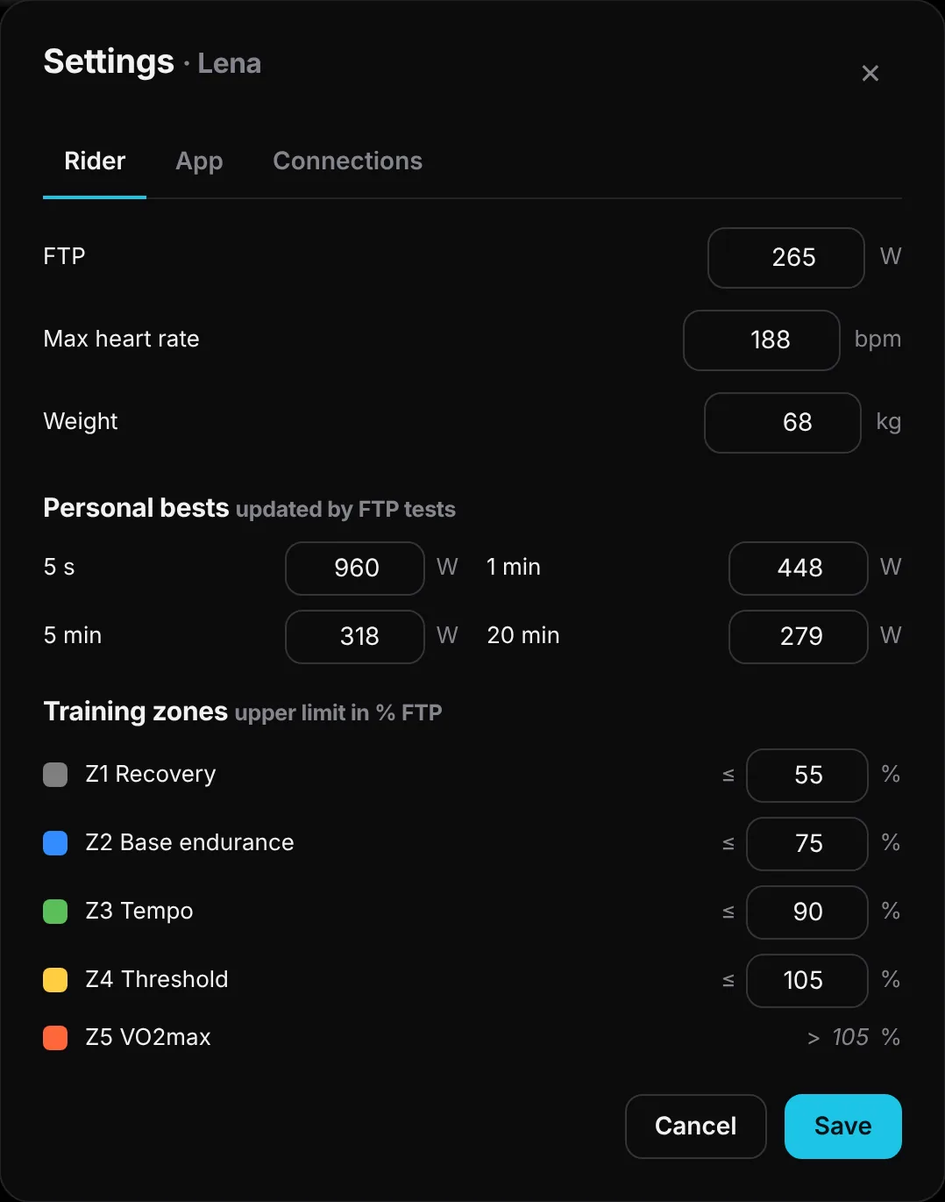
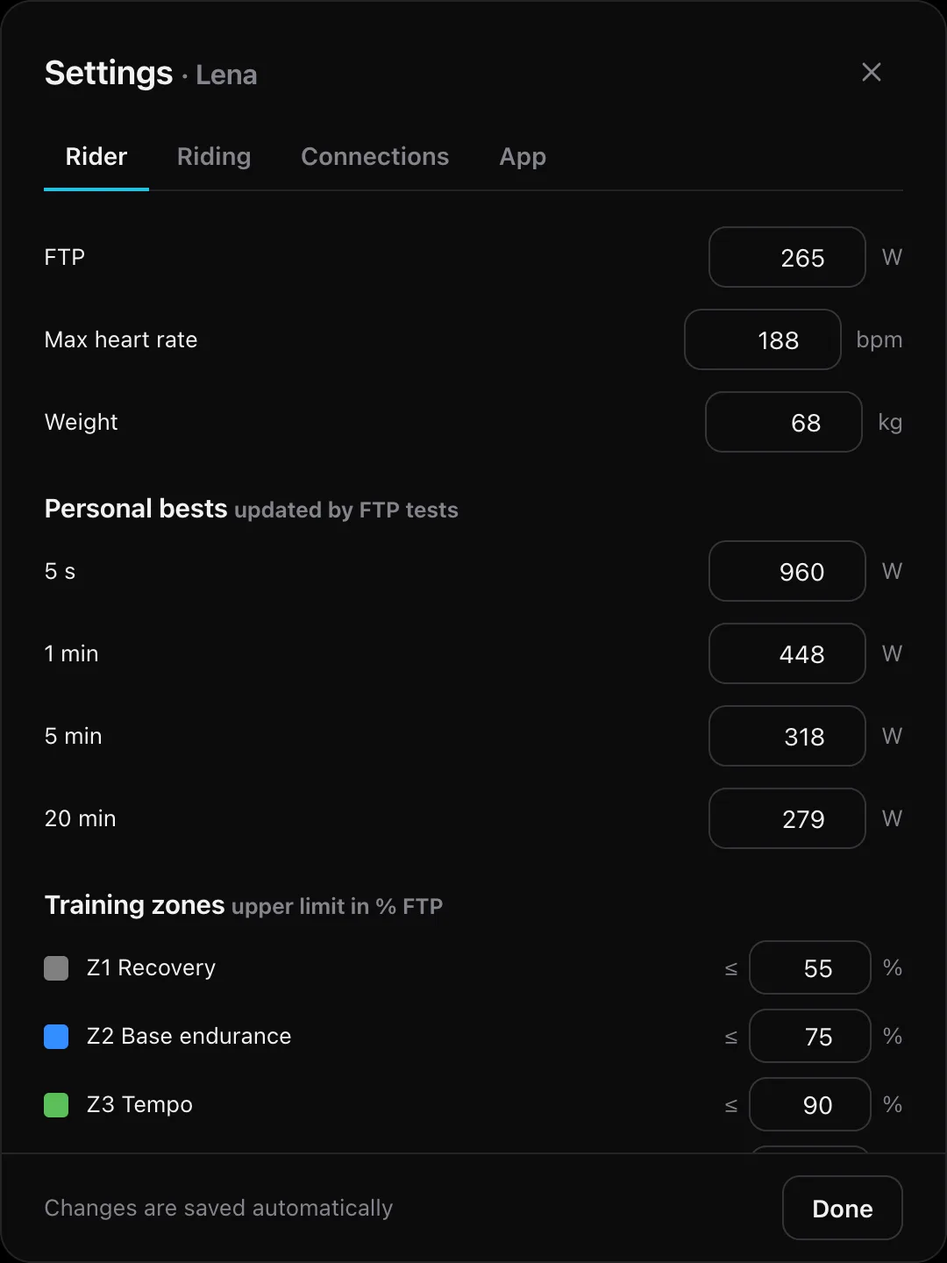
Align the website with 1.7: short-ride uploads, Retry auto-connect, keyboard shortcuts setting, Settings tabs, engine requirements
Retake the Settings screenshots (Rider, Connections) for the four-tab dialog
and add the Riding tab to the ride screen section.

diff --git a/site/features.html b/site/features.html
@@ -18,8 +18,8 @@
 </div></section>
 
 <section class="deep" id="ride"><div class="wrap grid">
-  <div class="side rv"><span class="eyebrow">Ride screen</span><h2 class="display">ERG, second by second.</h2><p>ERG updates the target every second, ramps included. In free-ride and all-out segments ERG turns off and you ride on your gears.</p><table class="keys"><tr><td><kbd>Space</kbd></td><td class="muted">start / pause</td></tr><tr><td><kbd>←</kbd> <kbd>→</kbd></td><td class="muted">previous / next segment</td></tr><tr><td><kbd>↑</kbd> <kbd>↓</kbd></td><td class="muted">intensity ±1 % (with Shift ±10 %)</td></tr><tr><td><kbd>+</kbd> <kbd>−</kbd></td><td class="muted">shift virtual gear</td></tr><tr><td><kbd>Esc</kbd></td><td class="muted">end the workout</td></tr></table></div>
-  <div class="rv"><div class="frame"><div class="bar"><i></i><i></i><i></i></div><img class="sd" src="img/ride-dark.webp" alt="Ride screen with live data and workout chart" width="1600" height="1000" loading="lazy"><img class="sl" src="img/ride-light.webp" alt="Ride screen with live data and workout chart" width="1600" height="1000" loading="lazy"></div><div class="cards"><div class="card"><h4>Start</h4><p>The workout starts after about two seconds of pedalling, or when you press Space.</p></div><div class="card"><h4>Cadence targets</h4><p>If a segment has a cadence target, it appears next to your cadence. The bar is green on target, amber 5–10 rpm off and red beyond that.</p></div><div class="card"><h4>Auto-pause</h4><p>After three seconds without power or cadence the workout pauses, and it resumes when you pedal again. You can turn this off.</p></div><div class="card"><h4>Sounds</h4><p>A countdown in the last three seconds before each change of target: three rising notes when the power goes up, three falling notes when it goes down. A short chime plays when you ride a workout to the end.</p></div></div></div>
+  <div class="side rv"><span class="eyebrow">Ride screen</span><h2 class="display">ERG, second by second.</h2><p>ERG updates the target every second, ramps included. In free-ride and all-out segments ERG turns off and you ride on your gears.</p><table class="keys"><tr><td><kbd>Space</kbd></td><td class="muted">start / pause</td></tr><tr><td><kbd>←</kbd> <kbd>→</kbd></td><td class="muted">previous / next segment</td></tr><tr><td><kbd>↑</kbd> <kbd>↓</kbd></td><td class="muted">intensity ±1 % (with Shift ±10 %)</td></tr><tr><td><kbd>+</kbd> <kbd>−</kbd></td><td class="muted">shift virtual gear</td></tr><tr><td><kbd>Esc</kbd></td><td class="muted">end the workout</td></tr></table><p class="muted" style="font-size:15px">Watching a video in another app? Turn off <b>Keyboard shortcuts while riding</b> under Settings → Riding. The on-screen buttons and controllers keep working.</p></div>
+  <div class="rv"><div class="frame"><div class="bar"><i></i><i></i><i></i></div><img class="sd" src="img/ride-dark.webp" alt="Ride screen with live data and workout chart" width="1600" height="1000" loading="lazy"><img class="sl" src="img/ride-light.webp" alt="Ride screen with live data and workout chart" width="1600" height="1000" loading="lazy"></div><div style="height:14px"></div><div style="max-width:560px"><div class="dialog-shot"><img class="sd" src="img/riding-card-dark.webp" alt="Riding settings with sounds, auto-pause, coach hints, keyboard shortcuts and virtual shifting" width="1080" height="1440" loading="lazy"><img class="sl" src="img/riding-card-light.webp" alt="Riding settings with sounds, auto-pause, coach hints, keyboard shortcuts and virtual shifting" width="1080" height="1440" loading="lazy"></div></div><div class="cards"><div class="card"><h4>Start</h4><p>The workout starts after about two seconds of pedalling, or when you press Space.</p></div><div class="card"><h4>Cadence targets</h4><p>If a segment has a cadence target, it appears next to your cadence. The bar is green on target, amber 5–10 rpm off and red beyond that.</p></div><div class="card"><h4>Auto-pause</h4><p>After three seconds without power or cadence the workout pauses, and it resumes when you pedal again. You can turn this off.</p></div><div class="card"><h4>Sounds</h4><p>A countdown in the last three seconds before each change of target: three rising notes when the power goes up, three falling notes when it goes down. A short chime plays when you ride a workout to the end.</p></div></div></div>
 </div></section>
 
 <section class="deep" id="compact"><div class="wrap grid">
@@ -49,17 +49,17 @@
 
 <section class="deep" id="devices"><div class="wrap grid">
   <div class="side rv"><span class="eyebrow">Devices</span><h2 class="display">Pair once.</h2><p>Trainer, heart-rate strap and controller are remembered for each rider. Open the Bluetooth menu in the top bar to see what is connected and to connect or change a device.</p></div>
-  <div class="rv"><div style="max-width:420px"><div class="dialog-shot"><img class="sd" src="img/devices-card-dark.webp" alt="Devices menu with a smart trainer, a heart-rate strap at 82 % battery and a Zwift Ride controller at 24 % battery" width="600" height="408" loading="lazy"><img class="sl" src="img/devices-card-light.webp" alt="Devices menu with a smart trainer, a heart-rate strap at 82 % battery and a Zwift Ride controller at 24 % battery" width="600" height="408" loading="lazy"></div></div><div class="cards"><div class="card"><h4>Automatic connection</h4><p>Saved devices connect when the app starts and reconnect by themselves after a dropout. A controller you switch off no longer shows as connected.</p></div><div class="card"><h4>Battery level</h4><p>Devices that report their battery, like most heart-rate straps and controllers and a few trainers, show it in the menu: green from 40 %, amber from 16 %, red at 15 % or less. Other devices show nothing.</p></div><div class="card"><h4>Status at a glance</h4><p>Three small dots next to the Bluetooth icon show trainer, heart rate and controller: green is connected, amber is connecting, grey is off.</p></div><div class="card"><h4>One app at a time</h4><p>Most trainers and controllers accept only one Bluetooth connection, so close Zwift and other training apps first.</p></div></div></div>
+  <div class="rv"><div style="max-width:420px"><div class="dialog-shot"><img class="sd" src="img/devices-card-dark.webp" alt="Devices menu with a smart trainer, a heart-rate strap at 82 % battery and a Zwift Ride controller at 24 % battery" width="600" height="408" loading="lazy"><img class="sl" src="img/devices-card-light.webp" alt="Devices menu with a smart trainer, a heart-rate strap at 82 % battery and a Zwift Ride controller at 24 % battery" width="600" height="408" loading="lazy"></div></div><div class="cards"><div class="card"><h4>Automatic connection</h4><p>Saved devices connect when the app starts and reconnect by themselves after a dropout. A controller you switch off no longer shows as connected. If the app started before your trainer was awake, <b>Retry auto-connect</b> in the menu connects the missing devices.</p></div><div class="card"><h4>Battery level</h4><p>Devices that report their battery, like most heart-rate straps and controllers and a few trainers, show it in the menu: green from 40 %, amber from 16 %, red at 15 % or less. Other devices show nothing.</p></div><div class="card"><h4>Status at a glance</h4><p>Three small dots next to the Bluetooth icon show trainer, heart rate and controller: green is connected, amber is connecting, grey is off.</p></div><div class="card"><h4>One app at a time</h4><p>Most trainers and controllers accept only one Bluetooth connection, so close Zwift and other training apps first.</p></div></div></div>
 </div></section>
 
 <section class="deep" id="riders"><div class="wrap grid">
   <div class="side rv"><span class="eyebrow">Riders &amp; sync</span><h2 class="display">Several riders, one app.</h2><p>Each rider has their own avatar, FTP, max heart rate, weight, zones, power bests, plan progress, favorites, history, paired devices and language: English, Deutsch or Français.</p></div>
-  <div class="rv"><div class="duo"><div class="dialog-shot"><img class="sd" src="img/settings-card-dark.webp" alt="Rider settings with FTP, weight, power bests and training zones" width="1078" height="1370" loading="lazy"><img class="sl" src="img/settings-card-light.webp" alt="Rider settings with FTP, weight, power bests and training zones" width="1078" height="1370" loading="lazy"></div><div class="dialog-shot"><img class="sd" src="img/sync-card-dark.webp" alt="Profile sync settings" width="1000" height="1469" loading="lazy"><img class="sl" src="img/sync-card-light.webp" alt="Profile sync settings" width="1000" height="1469" loading="lazy"></div></div><div class="cards"><div class="card"><h4>Zones</h4><p>Zone limits are set in % of FTP. The watt ranges update when your FTP changes.</p></div><div class="card"><h4>Power bests</h4><p>5 s, 1 min, 5 min and 20 min, updated by FTP tests.</p></div><div class="card"><h4>Sync</h4><p>Riders sync between computers through iCloud Drive, Dropbox, Nextcloud or any folder another app keeps in sync.</p></div><div class="card"><h4>Local by default</h4><p>There is no zwoTrainer account or server. Paired devices, the workouts folder and the Garmin sign-in stay on each computer.</p></div></div></div>
+  <div class="rv"><div class="duo"><div class="dialog-shot"><img class="sd" src="img/settings-card-dark.webp" alt="Rider settings with FTP, weight, power bests and training zones" width="1080" height="1440" loading="lazy"><img class="sl" src="img/settings-card-light.webp" alt="Rider settings with FTP, weight, power bests and training zones" width="1080" height="1440" loading="lazy"></div><div class="dialog-shot"><img class="sd" src="img/sync-card-dark.webp" alt="Profile sync settings" width="1080" height="1440" loading="lazy"><img class="sl" src="img/sync-card-light.webp" alt="Profile sync settings" width="1080" height="1440" loading="lazy"></div></div><div class="cards"><div class="card"><h4>Zones</h4><p>Zone limits are set in % of FTP. The watt ranges update when your FTP changes.</p></div><div class="card"><h4>Power bests</h4><p>5 s, 1 min, 5 min and 20 min, updated by FTP tests.</p></div><div class="card"><h4>Sync</h4><p>Riders sync between computers through iCloud Drive, Dropbox, Nextcloud or any folder another app keeps in sync.</p></div><div class="card"><h4>Settings</h4><p>Four tabs: Rider, Riding, Connections and App. Every change is saved as you make it, and a value out of range is marked instead of saved.</p></div><div class="card"><h4>Local by default</h4><p>There is no zwoTrainer account or server. Paired devices, the workouts folder and the Garmin sign-in stay on each computer.</p></div></div></div>
 </div></section>
 
 <section class="deep" id="uploads"><div class="wrap grid">
   <div class="side rv"><span class="eyebrow">Uploads</span><h2 class="display">Garmin, Strava, Intervals.icu and COROS.</h2><p>Each ride is saved as a FIT file. Uploads run automatically or with one click, and the ride history shows where each ride went.</p></div>
-  <div class="rv"><div style="max-width:560px"><div class="dialog-shot"><img class="sd" src="img/summary-card-dark.webp" alt="Ride summary with the ride uploaded to Garmin Connect" width="918" height="784" loading="lazy"><img class="sl" src="img/summary-card-light.webp" alt="Ride summary with the ride uploaded to Garmin Connect" width="918" height="784" loading="lazy"></div></div><div style="height:14px"></div><div class="dialog-shot"><img class="sd" src="img/history-card-dark.webp" alt="Ride history with a Garmin check mark for every uploaded ride" width="1400" height="449" loading="lazy"><img class="sl" src="img/history-card-light.webp" alt="Ride history with a Garmin check mark for every uploaded ride" width="1400" height="449" loading="lazy"></div><div class="cards"><div class="card"><h4>Garmin Connect</h4><p>Sign in on Garmin's own page (MFA supported). Rides are named after the workout, and Garmin calculates Training Effect and VO2max.</p></div><div class="card"><h4>Strava</h4><p>Link Strava to your Garmin account once, and uploaded rides continue to Strava.</p></div><div class="card"><h4>Intervals.icu</h4><p>Automatic uploads through the official API, using your API key.</p></div><div class="card"><h4>COROS and FIT</h4><p>COROS Training Hub only imports ZIP files, so zwoTrainer saves one for you. Any other platform can use the FIT file.</p></div></div></div>
+  <div class="rv"><div style="max-width:560px"><div class="dialog-shot"><img class="sd" src="img/summary-card-dark.webp" alt="Ride summary with the ride uploaded to Garmin Connect" width="918" height="784" loading="lazy"><img class="sl" src="img/summary-card-light.webp" alt="Ride summary with the ride uploaded to Garmin Connect" width="918" height="784" loading="lazy"></div></div><div style="height:14px"></div><div class="dialog-shot"><img class="sd" src="img/history-card-dark.webp" alt="Ride history with a Garmin check mark for every uploaded ride" width="1400" height="449" loading="lazy"><img class="sl" src="img/history-card-light.webp" alt="Ride history with a Garmin check mark for every uploaded ride" width="1400" height="449" loading="lazy"></div><div class="cards"><div class="card"><h4>Garmin Connect</h4><p>Sign in on Garmin's own page (MFA supported). Rides are named after the workout, and Garmin calculates Training Effect and VO2max.</p></div><div class="card"><h4>Strava</h4><p>Link Strava to your Garmin account once, and uploaded rides continue to Strava.</p></div><div class="card"><h4>Intervals.icu</h4><p>Automatic uploads through the official API, using your API key.</p></div><div class="card"><h4>COROS and FIT</h4><p>COROS Training Hub only imports ZIP files, so zwoTrainer saves one for you. Any other platform can use the FIT file.</p></div><div class="card"><h4>Short rides</h4><p>A ride shorter than 15 minutes, like a test spin, is not uploaded automatically. The summary asks first, and you can still upload it later from the history.</p></div></div></div>
 </div></section>
 
 <section class="block"><div class="wrap">

diff --git a/site/download.html b/site/download.html
@@ -19,13 +19,13 @@
 <section class="block" style="padding-top:clamp(48px,6vw,80px)"><div class="wrap">
   <div class="platforms">
     <div class="plat rv featured"><div class="ic"><svg viewBox="0 0 24 24" fill="currentColor"><path d="M16.4 12.6c0-2.5 2-3.6 2.1-3.7-1.2-1.7-3-1.9-3.6-2-1.5-.2-3 .9-3.8.9-.8 0-2-.9-3.3-.8-1.7 0-3.3 1-4.1 2.5-1.8 3.1-.5 7.6 1.3 10.1.8 1.2 1.8 2.6 3.1 2.5 1.3 0 1.7-.8 3.3-.8 1.5 0 1.9.8 3.3.8 1.4 0 2.2-1.2 3-2.4.9-1.4 1.3-2.7 1.3-2.8-.1 0-2.6-1-2.6-4.3zM14 5.2c.7-.8 1.2-2 1-3.2-1 0-2.3.7-3 1.5-.7.8-1.2 2-1.1 3.1 1.2.1 2.3-.6 3.1-1.4z"/></svg></div><span class="tag">Main platform</span><h3>macOS</h3>
-  <ul class="files"><li>zwoTrainer_&lt;version&gt;_aarch64.dmg · Apple silicon</li><li>zwoTrainer_&lt;version&gt;_x64.dmg · Intel</li></ul><p class="muted" style="margin:0;font-size:15px">macOS 13 or later. On first launch, right-click the app and choose Open, then allow Bluetooth.</p>
+  <ul class="files"><li>zwoTrainer_&lt;version&gt;_aarch64.dmg · Apple silicon</li><li>zwoTrainer_&lt;version&gt;_x64.dmg · Intel</li></ul><p class="muted" style="margin:0;font-size:15px">macOS 13 or later with Safari 17 or newer. On first launch, right-click the app and choose Open, then allow Bluetooth.</p>
   <a class="btn primary" href="https://github.com/steffenr/zwo-trainer/releases/latest"><svg viewBox="0 0 24 24" fill="none" stroke="currentColor" stroke-width="2.2" stroke-linecap="round" stroke-linejoin="round"><path d="M12 4v12M7 11l5 5 5-5M5 20h14"/></svg> Download for macOS</a></div>
     <div class="plat rv"><div class="ic"><svg viewBox="0 0 24 24" fill="currentColor"><path d="M3 5.5 10 4.5v7H3zM11 4.4 21 3v8.5H11zM3 12.5h7v7L3 18.5zM11 12.5h10V21l-10-1.4z"/></svg></div><span class="tag">Windows 10 / 11</span><h3>Windows</h3>
-  <ul class="files"><li>zwoTrainer_&lt;version&gt;_x64-setup.exe</li><li>zwoTrainer_&lt;version&gt;_x64_en-US.msi</li></ul><p class="muted" style="margin:0;font-size:15px">If SmartScreen warns, choose More info → Run anyway. Turn Bluetooth on; no pairing needed.</p>
+  <ul class="files"><li>zwoTrainer_&lt;version&gt;_x64-setup.exe</li><li>zwoTrainer_&lt;version&gt;_x64_en-US.msi</li></ul><p class="muted" style="margin:0;font-size:15px">If SmartScreen warns, choose More info → Run anyway. Turn Bluetooth on; no pairing needed. WebView2 updates itself.</p>
   <a class="btn" href="https://github.com/steffenr/zwo-trainer/releases/latest"><svg viewBox="0 0 24 24" fill="none" stroke="currentColor" stroke-width="2.2" stroke-linecap="round" stroke-linejoin="round"><path d="M12 4v12M7 11l5 5 5-5M5 20h14"/></svg> Download for Windows</a></div>
     <div class="plat rv"><div class="ic"><svg viewBox="0 0 24 24" fill="none" stroke="currentColor" stroke-width="2" stroke-linecap="round" stroke-linejoin="round"><rect x="3" y="4" width="18" height="16" rx="2"/><path d="m7 9 3 3-3 3M12 15h5"/></svg></div><span class="tag">x64</span><h3>Linux</h3>
-  <ul class="files"><li>zwoTrainer_&lt;version&gt;_amd64.deb</li><li>zwoTrainer-&lt;version&gt;-1.x86_64.rpm</li><li>zwoTrainer_&lt;version&gt;_amd64.AppImage</li></ul><p class="muted" style="margin:0;font-size:15px">Requires BlueZ (bluetoothd). The .deb and .rpm packages install it as a dependency.</p>
+  <ul class="files"><li>zwoTrainer_&lt;version&gt;_amd64.deb</li><li>zwoTrainer-&lt;version&gt;-1.x86_64.rpm</li><li>zwoTrainer_&lt;version&gt;_amd64.AppImage</li></ul><p class="muted" style="margin:0;font-size:15px">Requires BlueZ (bluetoothd) and WebKitGTK 2.42 or newer, as in current Ubuntu, Debian and Fedora. The .deb and .rpm packages install BlueZ as a dependency.</p>
   <a class="btn" href="https://github.com/steffenr/zwo-trainer/releases/latest"><svg viewBox="0 0 24 24" fill="none" stroke="currentColor" stroke-width="2.2" stroke-linecap="round" stroke-linejoin="round"><path d="M12 4v12M7 11l5 5 5-5M5 20h14"/></svg> Download for Linux</a></div>
   </div>
   <p class="muted" style="margin-top:22px;font-size:14px">zwoTrainer is developed and used on macOS. The Windows and Linux builds share the same code and are tested on every push, but have seen less real-world riding. Please report problems on <a href="https://github.com/steffenr/zwo-trainer/issues">GitHub</a>.</p>
@@ -44,7 +44,7 @@
 
 <section class="block"><div class="wrap" style="max-width:860px">
   <div class="head rv"><span class="eyebrow">FAQ</span><h2 class="display">Common questions.</h2></div>
-  <div class="rv"><details class="faq"><summary>Is zwoTrainer free?</summary><p>Yes. There is no subscription, no account and no ads. The source code is on GitHub.</p></details><details class="faq"><summary>Where do I get workouts?</summary><p>Any Zwift <code>.zwo</code> file works: exported from Zwift, downloaded from a workout site or written by a coach. To use workouts as a plan, put them in a folder and sort them by week and day.</p></details><details class="faq"><summary>Why does my system warn me when I open it?</summary><p>The installers aren't signed with a paid developer certificate. On macOS, right-click the app and choose Open, or use System Settings → Privacy &amp; Security → Open Anyway. On Windows, choose More info → Run anyway.</p></details><details class="faq"><summary>Which trainers work?</summary><p>Any Bluetooth smart trainer with FTMS, for example Wahoo KICKR and KICKR Core, Zwift Hub, Tacx, Elite, Saris and JetBlack. Bluetooth power meters and heart-rate straps work too.</p></details><details class="faq"><summary>Which controllers work?</summary><p>Zwift Ride, Zwift Click (v1 and v2) and Zwift Play, plus OpenBikeControl controllers and apps like BikeControl that bridge other controllers. They shift virtual gears, change intensity and skip segments.</p></details><details class="faq"><summary>Can I watch a video while I train?</summary><p>Yes. The compact view shrinks the ride screen into a small window that you can place beside or above any video player. There is no built-in video.</p></details><details class="faq"><summary>Can I run it at the same time as Zwift?</summary><p>No. Most trainers and controllers accept only one Bluetooth connection, so close Zwift and other training apps first.</p></details><details class="faq"><summary>Do my rides reach Strava?</summary><p>Yes, through Garmin Connect. Link Strava to your Garmin account once, and every uploaded ride is forwarded under the workout's name. The ride description doesn't reach Strava.</p></details><details class="faq"><summary>Does my Garmin password go through the app?</summary><p>No. You sign in on Garmin's own page, and zwoTrainer stores only the resulting session token, per rider, on your computer.</p></details></div>
+  <div class="rv"><details class="faq"><summary>Is zwoTrainer free?</summary><p>Yes. There is no subscription, no account and no ads. The source code is on GitHub.</p></details><details class="faq"><summary>Where do I get workouts?</summary><p>Any Zwift <code>.zwo</code> file works: exported from Zwift, downloaded from a workout site or written by a coach. To use workouts as a plan, put them in a folder and sort them by week and day.</p></details><details class="faq"><summary>Why does my system warn me when I open it?</summary><p>The installers aren't signed with a paid developer certificate. On macOS, right-click the app and choose Open, or use System Settings → Privacy &amp; Security → Open Anyway. On Windows, choose More info → Run anyway.</p></details><details class="faq"><summary>Why does the app look unstyled or show “update your system”?</summary><p>The window is drawn by your system's web engine, and zwoTrainer needs a current one: Safari 17 or newer on macOS (install the Safari updates), a current WebView2 on Windows (it updates itself) and WebKitGTK 2.42 or newer on Linux. With an older engine the app shows a notice asking you to update.</p></details><details class="faq"><summary>Which trainers work?</summary><p>Any Bluetooth smart trainer with FTMS, for example Wahoo KICKR and KICKR Core, Zwift Hub, Tacx, Elite, Saris and JetBlack. Bluetooth power meters and heart-rate straps work too.</p></details><details class="faq"><summary>Which controllers work?</summary><p>Zwift Ride, Zwift Click (v1 and v2) and Zwift Play, plus OpenBikeControl controllers and apps like BikeControl that bridge other controllers. They shift virtual gears, change intensity and skip segments.</p></details><details class="faq"><summary>Can I watch a video while I train?</summary><p>Yes. The compact view shrinks the ride screen into a small window that you can place beside or above any video player. There is no built-in video.</p></details><details class="faq"><summary>Can I run it at the same time as Zwift?</summary><p>No. Most trainers and controllers accept only one Bluetooth connection, so close Zwift and other training apps first.</p></details><details class="faq"><summary>Do my rides reach Strava?</summary><p>Yes, through Garmin Connect. Link Strava to your Garmin account once, and every uploaded ride is forwarded under the workout's name. The ride description doesn't reach Strava.</p></details><details class="faq"><summary>Does my Garmin password go through the app?</summary><p>No. You sign in on Garmin's own page, and zwoTrainer stores only the resulting session token, per rider, on your computer.</p></details></div>
   <p class="muted" style="margin-top:36px">To build zwoTrainer yourself, see the <a href="https://github.com/steffenr/zwo-trainer#build-from-source">build instructions</a> in the README.</p>
 </div></section>
 <section class="block" id="support" style="padding-top:0">

diff --git a/site/index.html b/site/index.html
@@ -117,10 +117,11 @@
         <ul class="ticks">
           <li><b>Summary:</b> time, average power, NP, average heart rate, cadence and energy.</li>
           <li><b>Garmin sign-in</b> happens on Garmin's own page, with MFA. zwoTrainer stores a session token, never your password.</li>
+          <li><b>Short rides</b> under 15 minutes are only uploaded after you confirm.</li>
           <li><b>Rider sync</b> between computers through iCloud Drive, Dropbox or Nextcloud.</li>
         </ul>
       </div>
-      <div class="rv"><div class="duo"><div class="dialog-shot"><img class="sd" src="img/summary-card-dark.webp" alt="Workout summary with time, power, NP, heart rate, cadence and energy, uploaded to Garmin Connect" width="918" height="784" loading="lazy"><img class="sl" src="img/summary-card-light.webp" alt="Workout summary with time, power, NP, heart rate, cadence and energy, uploaded to Garmin Connect" width="918" height="784" loading="lazy"></div><div class="dialog-shot"><img class="sd" src="img/sync-card-dark.webp" alt="Connections settings with profile sync and Garmin Connect" width="1000" height="1469" loading="lazy"><img class="sl" src="img/sync-card-light.webp" alt="Connections settings with profile sync and Garmin Connect" width="1000" height="1469" loading="lazy"></div></div></div>
+      <div class="rv"><div class="duo"><div class="dialog-shot"><img class="sd" src="img/summary-card-dark.webp" alt="Workout summary with time, power, NP, heart rate, cadence and energy, uploaded to Garmin Connect" width="918" height="784" loading="lazy"><img class="sl" src="img/summary-card-light.webp" alt="Workout summary with time, power, NP, heart rate, cadence and energy, uploaded to Garmin Connect" width="918" height="784" loading="lazy"></div><div class="dialog-shot"><img class="sd" src="img/sync-card-dark.webp" alt="Connections settings with profile sync and Garmin Connect" width="1080" height="1440" loading="lazy"><img class="sl" src="img/sync-card-light.webp" alt="Connections settings with profile sync and Garmin Connect" width="1080" height="1440" loading="lazy"></div></div></div>
     </div>
   </div>
 </section>
@@ -130,7 +131,7 @@
     <div class="head rv">
       <span class="eyebrow">Devices</span>
       <h2 class="display">Pair once.</h2>
-      <p class="lead">Devices are remembered per rider and reconnect at launch and after a dropout. The Bluetooth menu shows the battery level of devices that report it.</p>
+      <p class="lead">Devices are remembered per rider and reconnect at launch and after a dropout. If a device was still asleep, Retry auto-connect picks it up. The Bluetooth menu shows the battery level of devices that report it.</p>
     </div>
     <div class="compat rv">
       <div><div class="ic"><svg viewBox="0 0 24 24" fill="none" stroke="currentColor" stroke-width="2" stroke-linecap="round" stroke-linejoin="round"><circle cx="12" cy="12" r="7"/><circle cx="12" cy="12" r="2"/><path d="M12 5v2M12 17v2M5 12h2M17 12h2"/></svg></div><h3>Smart trainers</h3><p>Any Bluetooth FTMS trainer, such as Wahoo KICKR, Zwift Hub, Tacx, Elite, Saris or JetBlack, in ERG mode or flat-road simulation.</p></div>
